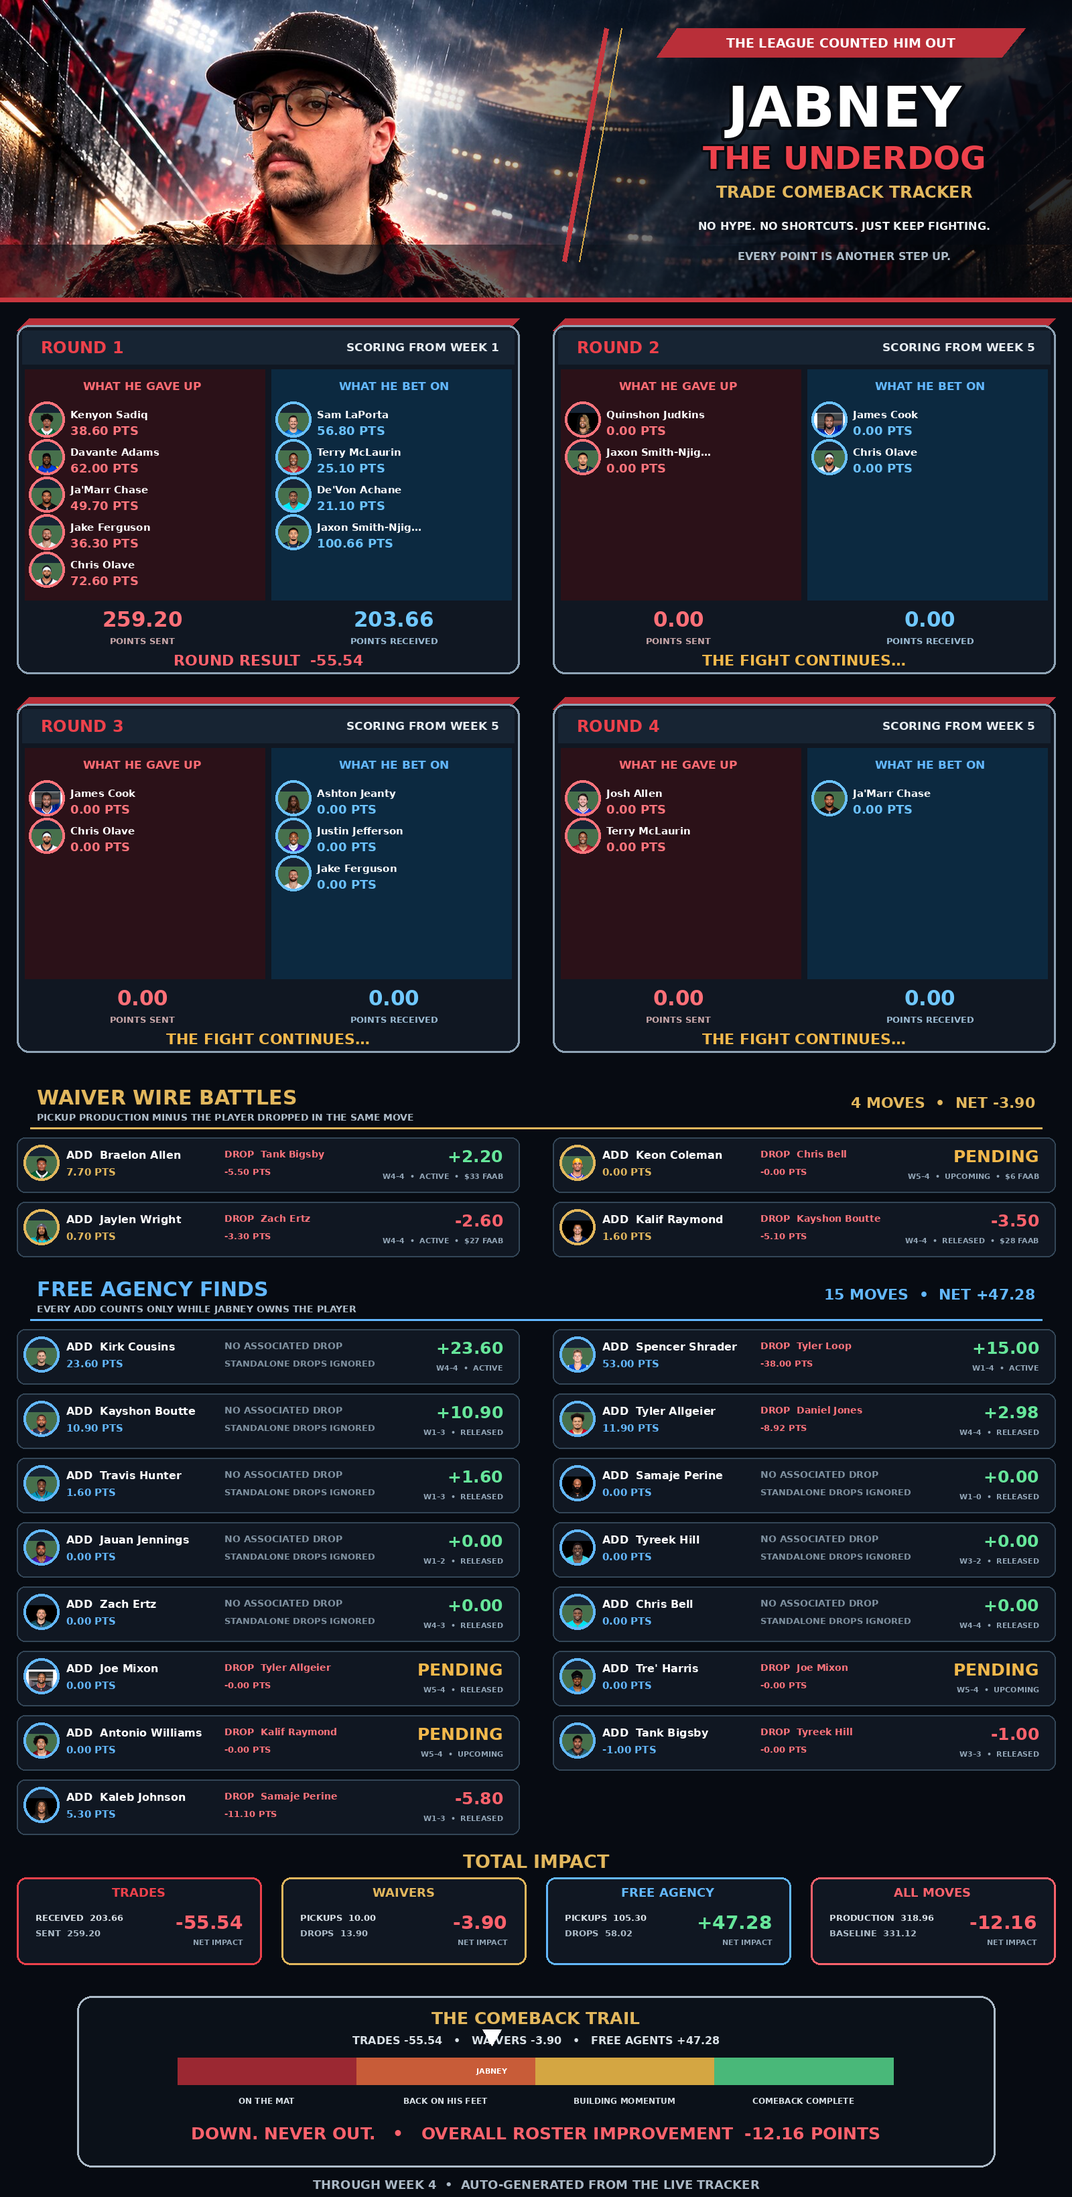
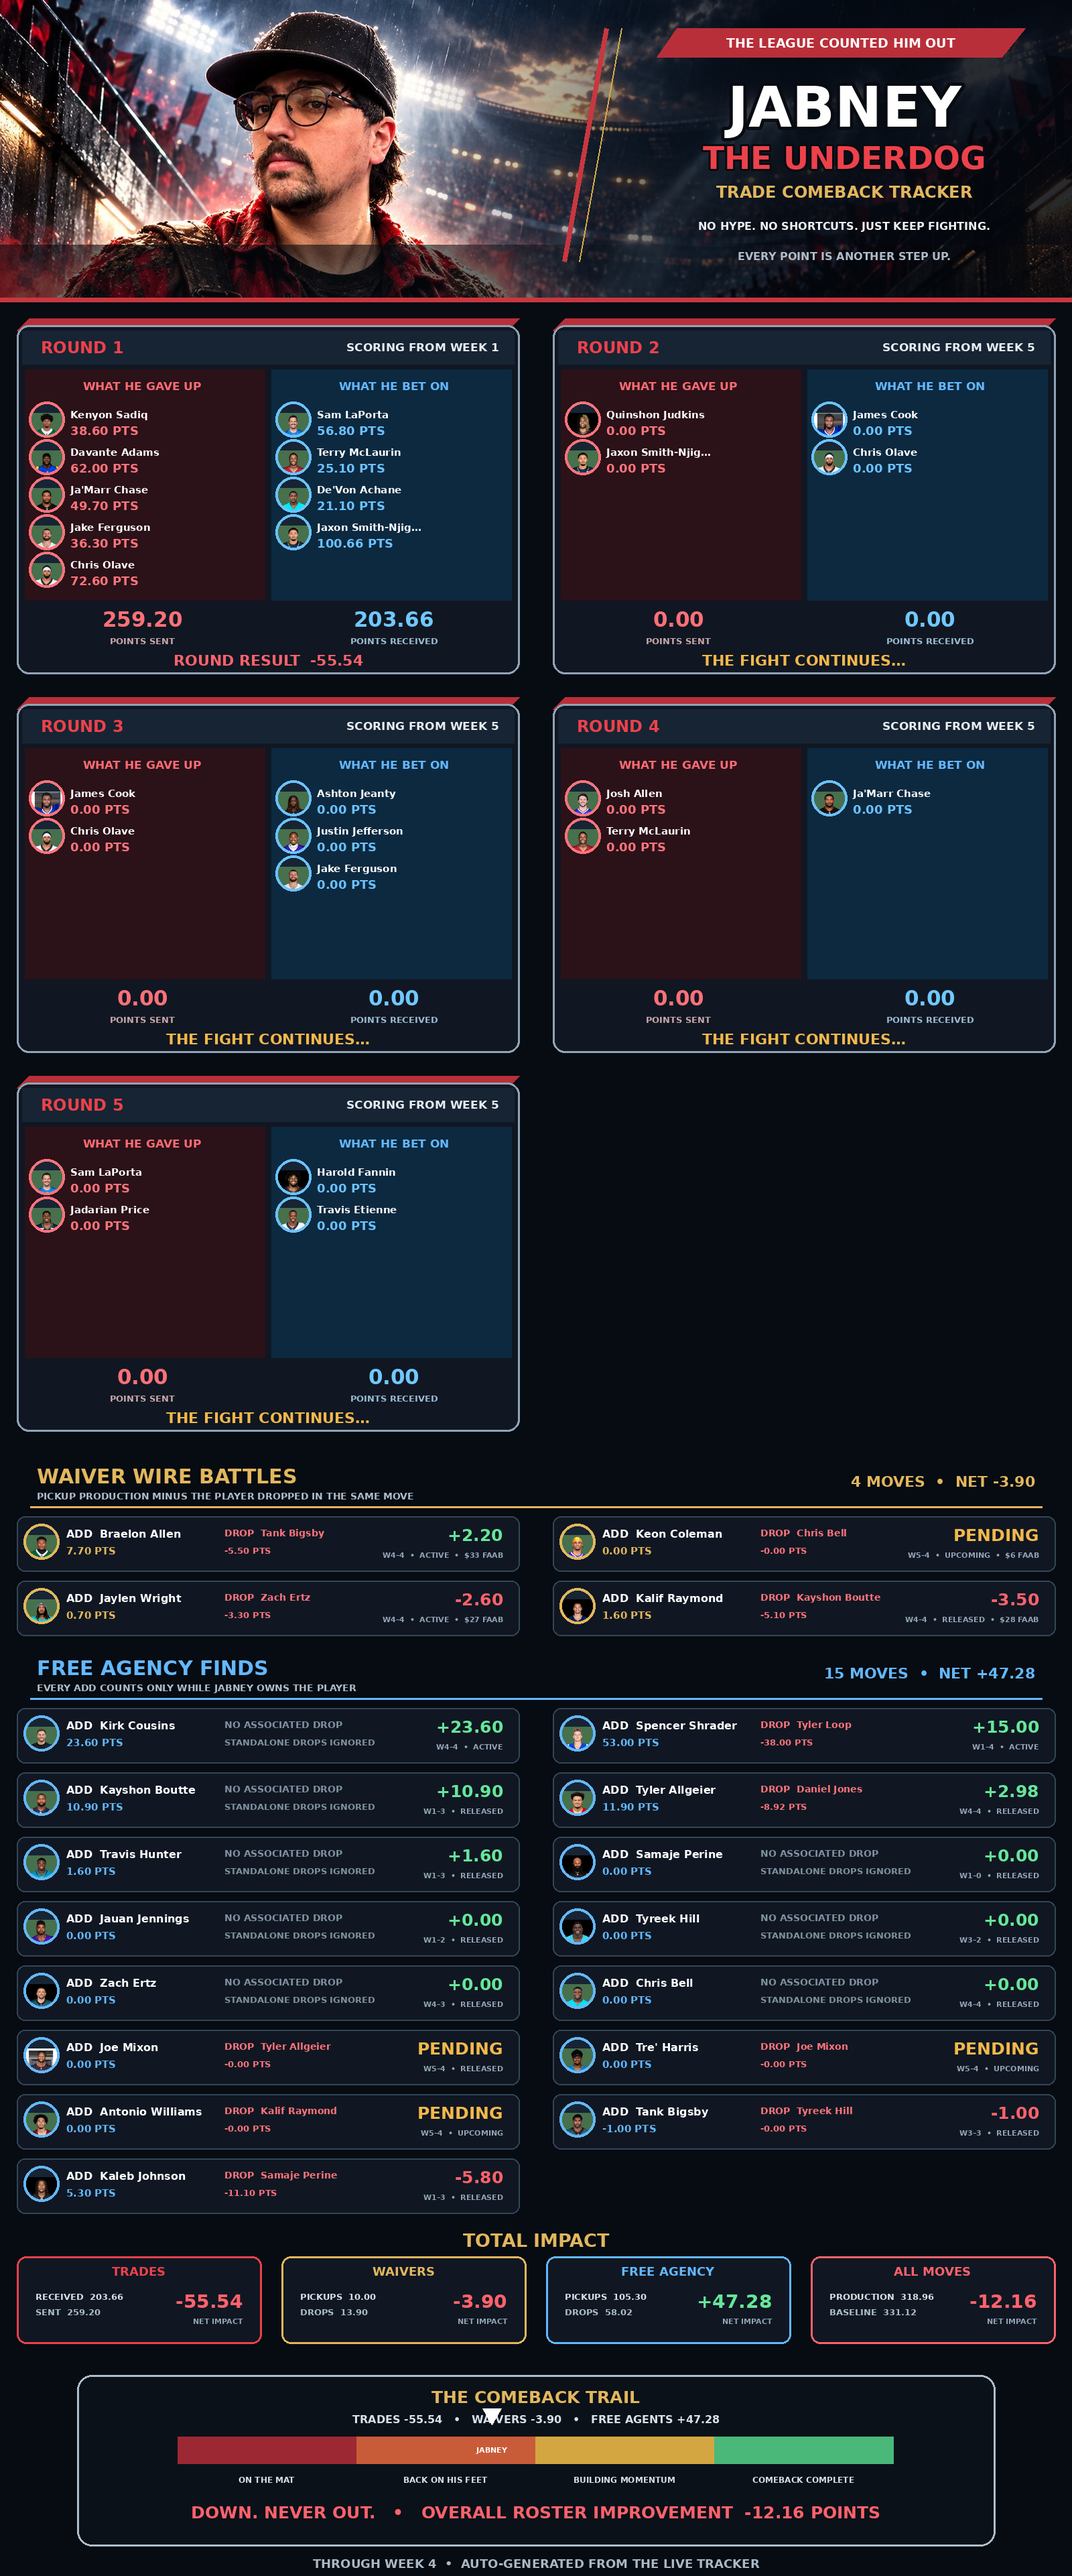
Update Sleeper trade data and tracker reports

diff --git a/reports/leaderboard.md b/reports/leaderboard.md
@@ -1,6 +1,6 @@
 # Rowdy League Trades
 
-Updated 2026-10-11T06:01:25.143535+00:00. Season 2026; tracking transactions from 2026-08-23; scored through Week 4.
+Updated 2026-10-11T13:07:32.653462+00:00. Season 2026; tracking transactions from 2026-08-23; scored through Week 4.
 
 Player production includes bench points and continues after subsequent trades or drops. Each trade is a separate counterfactual: received minus sent over the same weeks. Repeated players can appear in multiple trades. This is a production leaderboard, not a complete dynasty-value ranking. Picks and FAAB remain listed but unvalued.
 
@@ -11,7 +11,7 @@ Player production includes bench points and continues after subsequent trades or
 | 1 | krunky | Grand Theft Aubrey | +61.10 | 3 | 4 | Yes |
 | 2 | TheRealNoodleMan | Gibbs of War | +48.92 | 2 | 4 | No |
 | 3 | SethLL | Red Dead Zachdemption | +26.40 | 2 | 2 | No |
-| 4 | oneyjb | Bower's Inside Story | +4.52 | 3 | 3 | No |
+| 4 | oneyjb | Bower's Inside Story | +4.52 | 3 | 4 | No |
 | 5 | lfain20 | Mortal Kombat: DARTside | +1.30 | 1 | 2 | Yes |
 | 6 | Dawg2003 | The Windhelm Nords  | +0.00 | 0 | 2 | No |
 | 7 | DiscipleJack | Super Lamario | +0.00 | 0 | 0 | No |
@@ -19,7 +19,7 @@ Player production includes bench points and continues after subsequent trades or
 | 9 | therealbulker | MidnightClub Rice Edition | -4.04 | 1 | 1 | No |
 | 10 | AfootCoronet56 | Risk of Rome | -39.16 | 2 | 3 | Yes |
 | 11 | Potatomain | The lost Cause Fallacy | -43.50 | 2 | 4 | No |
-| 12 | JabneyTheKing | Allen Wake | -55.54 | 1 | 4 | Yes |
+| 12 | JabneyTheKing | Allen Wake | -55.54 | 1 | 5 | Yes |
 
 ### Trade 1397438171741986816
 
@@ -172,3 +172,12 @@ First scoring week: **5**
 |---|---|---|---:|---:|---:|---|
 | JabneyTheKing / Allen Wake | Ja'Marr Chase (0.00) | Josh Allen (0.00), Terry McLaurin (0.00) | 0.00 | 0.00 | +0.00 | pending |
 | AfootCoronet56 / Risk of Rome | Josh Allen (0.00), Terry McLaurin (0.00) | Ja'Marr Chase (0.00) | 0.00 | 0.00 | +0.00 | pending |
+
+### Trade 1414473604535480320
+
+First scoring week: **5**
+
+| Manager / Team | Received | Sent | Points in | Points out | +/- | Status |
+|---|---|---|---:|---:|---:|---|
+| JabneyTheKing / Allen Wake | Harold Fannin (0.00), Travis Etienne (0.00) | Sam LaPorta (0.00), Jadarian Price (0.00) | 0.00 | 0.00 | +0.00 | pending |
+| oneyjb / Bower's Inside Story | Sam LaPorta (0.00), Jadarian Price (0.00) | Harold Fannin (0.00), Travis Etienne (0.00) | 0.00 | 0.00 | +0.00 | pending |

diff --git a/reports/most_improved.md b/reports/most_improved.md
@@ -1,6 +1,6 @@
 # Most Improved
 
-Updated 2026-10-11T06:01:25.143535+00:00. Season 2026; tracking transactions from 2026-08-23; scored through Week 4.
+Updated 2026-10-11T13:07:32.653462+00:00. Season 2026; tracking transactions from 2026-08-23; scored through Week 4.
 
 Most Improved Score = trade +/- + net waiver improvement + net free-agent improvement. For an add/drop transaction, acquisition improvement is added-player production minus dropped-player production over the added player's ownership window. Standalone drops are ignored. Bench points count. All components use the same August 23 transaction cutoff.
 
@@ -75,6 +75,7 @@ Most Improved Score = trade +/- + net waiver improvement + net free-agent improv
 | lfain20 | Efton Chism | Isaiah Williams | No completed week | 0.00 | 0.00 | +0.00 | pending |
 | oneyjb | Malachi Fields | Rashid Shaheed | No completed week | 0.00 | 0.00 | +0.00 | scored |
 | oneyjb | Roman Wilson | — | No completed week | 0.00 | 0.00 | +0.00 | pending |
+| oneyjb | WAS | BAL | No completed week | 0.00 | 0.00 | +0.00 | pending |
 | Potatomain | NYG | George Holani | No completed week | 0.00 | 0.00 | +0.00 | pending |
 | RollnWithJesus | Chris Rodriguez | — | No completed week | 0.00 | 0.00 | +0.00 | pending |
 | RollnWithJesus | MarShawn Lloyd | — | No completed week | 0.00 | 0.00 | +0.00 | pending |

diff --git a/reports/rebuild_king.md b/reports/rebuild_king.md
@@ -1,6 +1,6 @@
 # Rebuild King
 
-Updated 2026-10-11T06:01:25.143535+00:00. Season 2026; scored through Week 4. Only moves whose first eligible scoring week is Week 2 or later are included.
+Updated 2026-10-11T13:07:32.653462+00:00. Season 2026; scored through Week 4. Only moves whose first eligible scoring week is Week 2 or later are included.
 
 Rebuild King Score = post-Week-1 trade +/- + net waiver improvement + net free-agent improvement. Add/drop transactions subtract the dropped player's production over the added player's ownership window; standalone drops are ignored.
 
@@ -56,6 +56,7 @@ Rebuild King Score = post-Week-1 trade +/- + net waiver improvement + net free-a
 | lfain20 | Efton Chism | Isaiah Williams | No completed week | 0.00 | 0.00 | +0.00 | pending |
 | oneyjb | Malachi Fields | Rashid Shaheed | No completed week | 0.00 | 0.00 | +0.00 | scored |
 | oneyjb | Roman Wilson | — | No completed week | 0.00 | 0.00 | +0.00 | pending |
+| oneyjb | WAS | BAL | No completed week | 0.00 | 0.00 | +0.00 | pending |
 | Potatomain | NYG | George Holani | No completed week | 0.00 | 0.00 | +0.00 | pending |
 | RollnWithJesus | Chris Rodriguez | — | No completed week | 0.00 | 0.00 | +0.00 | pending |
 | RollnWithJesus | MarShawn Lloyd | — | No completed week | 0.00 | 0.00 | +0.00 | pending |

diff --git a/reports/jabney.md b/reports/jabney.md
@@ -1,6 +1,6 @@
 # Rowdy League Trades
 
-Updated 2026-10-11T06:01:25.143535+00:00. Season 2026; tracking transactions from 2026-08-23; scored through Week 4.
+Updated 2026-10-11T13:07:32.653462+00:00. Season 2026; tracking transactions from 2026-08-23; scored through Week 4.
 
 Player production includes bench points and continues after subsequent trades or drops. Each trade is a separate counterfactual: received minus sent over the same weeks. Repeated players can appear in multiple trades. This is a production leaderboard, not a complete dynasty-value ranking. Picks and FAAB remain listed but unvalued.
 
@@ -43,3 +43,11 @@ First scoring week: **5**
 | Manager / Team | Received | Sent | Points in | Points out | +/- | Status |
 |---|---|---|---:|---:|---:|---|
 | JabneyTheKing / Allen Wake | Ja'Marr Chase (0.00) | Josh Allen (0.00), Terry McLaurin (0.00) | 0.00 | 0.00 | +0.00 | pending |
+
+### Trade 1414473604535480320
+
+First scoring week: **5**
+
+| Manager / Team | Received | Sent | Points in | Points out | +/- | Status |
+|---|---|---|---:|---:|---:|---|
+| JabneyTheKing / Allen Wake | Harold Fannin (0.00), Travis Etienne (0.00) | Sam LaPorta (0.00), Jadarian Price (0.00) | 0.00 | 0.00 | +0.00 | pending |

diff --git a/reports/krunky.md b/reports/krunky.md
@@ -1,6 +1,6 @@
 # Rowdy League Trades
 
-Updated 2026-10-11T06:01:25.143535+00:00. Season 2026; tracking transactions from 2026-08-23; scored through Week 4.
+Updated 2026-10-11T13:07:32.653462+00:00. Season 2026; tracking transactions from 2026-08-23; scored through Week 4.
 
 Player production includes bench points and continues after subsequent trades or drops. Each trade is a separate counterfactual: received minus sent over the same weeks. Repeated players can appear in multiple trades. This is a production leaderboard, not a complete dynasty-value ranking. Picks and FAAB remain listed but unvalued.
 

diff --git a/reports/ryan.md b/reports/ryan.md
@@ -1,6 +1,6 @@
 # Rowdy League Trades
 
-Updated 2026-10-11T06:01:25.143535+00:00. Season 2026; tracking transactions from 2026-08-23; scored through Week 4.
+Updated 2026-10-11T13:07:32.653462+00:00. Season 2026; tracking transactions from 2026-08-23; scored through Week 4.
 
 Player production includes bench points and continues after subsequent trades or drops. Each trade is a separate counterfactual: received minus sent over the same weeks. Repeated players can appear in multiple trades. This is a production leaderboard, not a complete dynasty-value ranking. Picks and FAAB remain listed but unvalued.
 

diff --git a/reports/veto_vindicator.md b/reports/veto_vindicator.md
@@ -1,6 +1,6 @@
 # Rowdy League Trades
 
-Updated 2026-10-11T06:01:25.143535+00:00. Season 2026; tracking transactions from 2026-08-23; scored through Week 4.
+Updated 2026-10-11T13:07:32.653462+00:00. Season 2026; tracking transactions from 2026-08-23; scored through Week 4.
 
 Player production includes bench points and continues after subsequent trades or drops. Each trade is a separate counterfactual: received minus sent over the same weeks. Repeated players can appear in multiple trades. This is a production leaderboard, not a complete dynasty-value ranking. Picks and FAAB remain listed but unvalued.
 

diff --git a/reports/waiver_champion.md b/reports/waiver_champion.md
@@ -1,6 +1,6 @@
 # Waiver Champion
 
-Updated 2026-10-11T06:01:25.143535+00:00. Season 2026; tracking transactions from 2026-08-23; scored through Week 4.
+Updated 2026-10-11T13:07:32.653462+00:00. Season 2026; tracking transactions from 2026-08-23; scored through Week 4.
 
 Ranked by net roster improvement from successful waiver claims. When a claim also drops a player, net improvement is pickup production minus dropped-player production over the pickup's ownership window. Standalone drops are ignored. Bench points count; free-agent adds are excluded.
 
